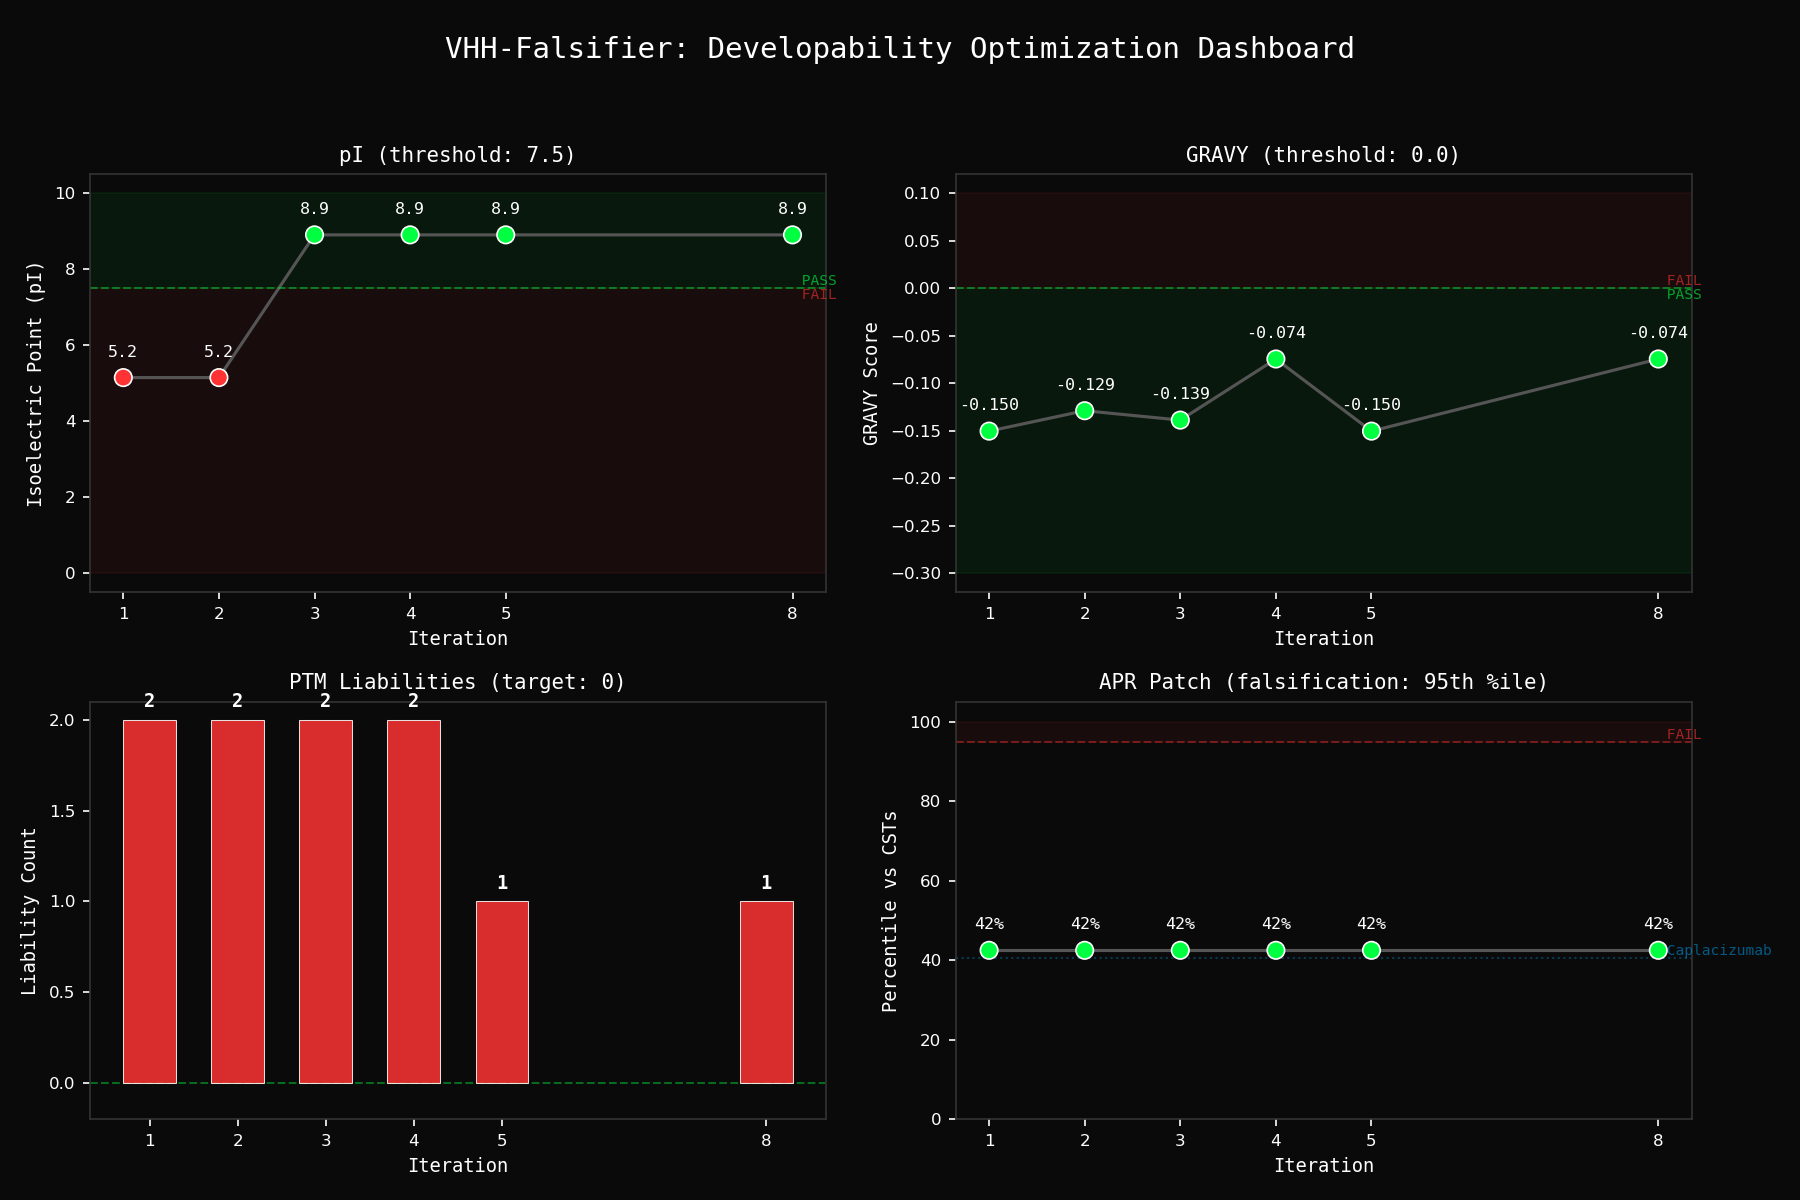
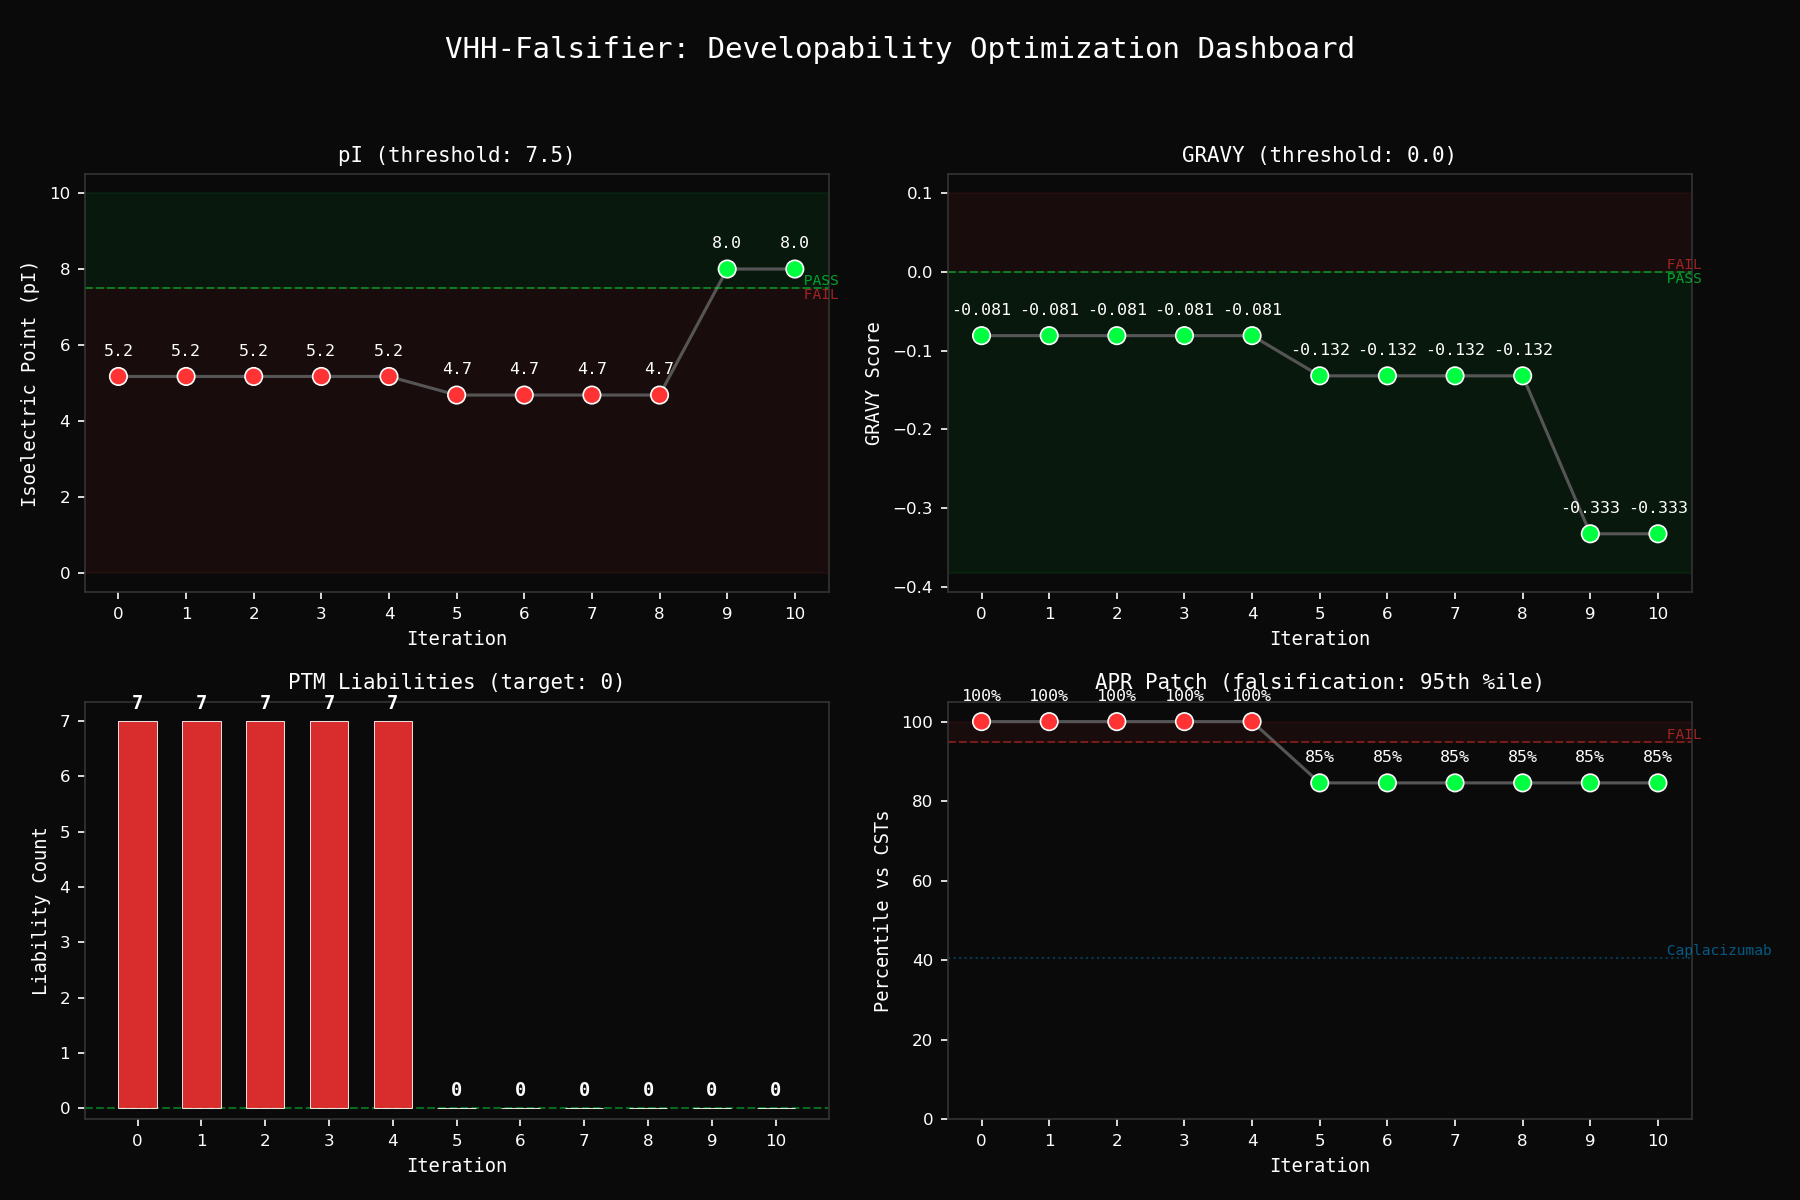
feat: default to naive seed, update dashboard image
Make --seed naive the default for more dramatic optimization dashboards
(7 liabilities, low pI, APR 100th percentile). Update dashboard PNG
with naive seed run showing full red-to-green optimization arc.

diff --git a/agent_loop.py b/agent_loop.py
@@ -285,6 +285,24 @@ identify a liability, be specific about position, motif, mechanism, and fix.
 """
 
 # ---------------------------------------------------------------------------
+# Seed sequences for different starting points
+# ---------------------------------------------------------------------------
+
+# Option 1: Deliberately bad naive VHH — 7 liabilities, low pI, APR 100th %ile,
+# fully humanized FR2. Maximises the red→green arc in the dashboard.
+NAIVE_SEED = (
+    "EVQLVESGGGLVQPGGSLRLSCAASGFTFSNGYMSNGWVRQAPGKGLEWVSDGISNGGS"
+    "TYYADSVKGRFTISRDNSKNTLYLQMNSLRAEDTAVYYCAAILVCFFDGYWGQGTLVTVSS"
+)
+
+# Option 2: Pembrolizumab heavy chain VH (PDB 5DK3) — real clinical sequence,
+# 1 liability (NG), good pI, but fully humanized FR2 (needs camelid conversion).
+PEMBROLIZUMAB_VH_SEED = (
+    "QVQLVQSGVEVKKPGASVKVSCKASGYTFTNYYMYWVRQAPGQGLEWMGGINPSNGGTN"
+    "FNEKFKNRVTLTTDSSTTTAYMELKSLQFDDTAVYYCARRDYRFDMGFDYWGQGTTVTVSS"
+)
+
+# ---------------------------------------------------------------------------
 # Main falsification loop
 # ---------------------------------------------------------------------------
 MAX_ITERATIONS = 10  # Safety cap to prevent runaway loops
@@ -295,6 +313,7 @@ PLOT_DIR = Path(__file__).parent / "assets"
 
 def _plot_biophysical_trajectory(
     points: list[dict],
+    plot_name: str = "biophysical_trajectory",
 ) -> Path:
     """Generate a multi-panel developability dashboard.
 
@@ -305,7 +324,7 @@ def _plot_biophysical_trajectory(
       4. APR percentile — worst hydrophobic patch vs. clinical distribution
     """
     PLOT_DIR.mkdir(exist_ok=True)
-    out_path = PLOT_DIR / "biophysical_trajectory.png"
+    out_path = PLOT_DIR / f"{plot_name}.png"
 
     def _is_imputed(point: dict, key: str) -> bool:
         return key in point.get("_imputed", set())
@@ -540,8 +559,17 @@ def _plot_biophysical_trajectory(
     return out_path
 
 
-def run_falsification_loop() -> None:
-    """Run the generate → falsify → critique → mutate loop."""
+def run_falsification_loop(
+    seed_sequence: str | None = None,
+    plot_name: str = "biophysical_trajectory",
+) -> None:
+    """Run the generate → falsify → critique → mutate loop.
+
+    Args:
+        seed_sequence: Optional starting sequence. If provided, the agent is
+            asked to optimize it rather than designing from scratch.
+        plot_name: Base name for the dashboard PNG (without extension).
+    """
     api_key = os.environ.get("TOGETHER_API_KEY")
     if not api_key:
         print(
@@ -555,27 +583,39 @@ def run_falsification_loop() -> None:
 
     client = OpenAI(api_key=api_key, base_url=BASE_URL)
 
-    header_print("VHH-Falsifier — Sequential Falsification Loop")
+    seed_label = "from seed" if seed_sequence else "zero-shot"
+    header_print(f"VHH-Falsifier — Sequential Falsification Loop ({seed_label})")
     cot_print(f"Session started: {datetime.now(timezone.utc).isoformat()}")
     cot_print("Target: Human PD-1 (Pembrolizumab epitope)")
     cot_print("Scaffold: Camelid VHH nanobody")
     cot_print(f"Provider: Together AI ({BASE_URL})")
     cot_print(f"Model: {model_id}")
     cot_print(f"Max iterations: {MAX_ITERATIONS}")
+    if seed_sequence:
+        cot_print(f"Seed sequence: {seed_sequence[:40]}...")
     cot_print(f"CoT log: {COT_LOG.resolve()}\n")
+
+    # Build user prompt — seeded or zero-shot
+    if seed_sequence:
+        user_prompt = (
+            f"Optimize the following seed VHH sequence for targeting Human PD-1 "
+            f"at the Pembrolizumab epitope. This sequence has known developability "
+            f"issues. Follow the sequential falsification protocol exactly: first "
+            f"run all four tools on this seed, then critique and mutate.\n\n"
+            f"Seed sequence:\n{seed_sequence}"
+        )
+    else:
+        user_prompt = (
+            "Design a VHH nanobody targeting Human PD-1 at the "
+            "Pembrolizumab epitope. Follow the sequential falsification "
+            "protocol exactly. Begin by proposing your first candidate "
+            "sequence, then immediately falsify it with all four tools."
+        )
 
     # Initial user message kicks off the loop
     messages: list[dict] = [
         {"role": "system", "content": SYSTEM_PROMPT},
-        {
-            "role": "user",
-            "content": (
-                "Design a VHH nanobody targeting Human PD-1 at the "
-                "Pembrolizumab epitope. Follow the sequential falsification "
-                "protocol exactly. Begin by proposing your first candidate "
-                "sequence, then immediately falsify it with all four tools."
-            ),
-        },
+        {"role": "user", "content": user_prompt},
     ]
 
     # Cost tracking
@@ -584,6 +624,20 @@ def run_falsification_loop() -> None:
 
     # Per-iteration tracking for dashboard plot
     iteration_metrics: dict[int, dict] = {}  # iteration -> merged metrics
+
+    # Capture iteration-0 baseline if a seed was provided
+    if seed_sequence:
+        bp = json.loads(calculate_biophysical_profile(seed_sequence))
+        sl = json.loads(scan_structural_liabilities(seed_sequence))
+        ap = json.loads(scan_aggregation_patches(seed_sequence))
+        iteration_metrics[0] = {
+            "iteration": 0,
+            "pI": bp.get("isoelectric_point", 0),
+            "gravy": bp.get("gravy", 0),
+            "liability_count": sl.get("liability_count", 0),
+            "apr_percentile": ap.get("candidate_max_patch", {}).get("percentile", 0),
+        }
+        cot_print("[Baseline] Seed sequence profiled as iteration 0")
 
     iteration = 0
     for iteration in range(1, MAX_ITERATIONS + 1):
@@ -748,7 +802,7 @@ def run_falsification_loop() -> None:
                     dashboard_points[i].setdefault("_imputed", set()).add(key)
 
     if len(dashboard_points) >= 2:
-        plot_path = _plot_biophysical_trajectory(dashboard_points)
+        plot_path = _plot_biophysical_trajectory(dashboard_points, plot_name)
         cot_print(f"Developability dashboard saved: {plot_path}")
     elif dashboard_points:
         cot_print("Only one iteration with data — skipping dashboard.")
@@ -762,4 +816,28 @@ def run_falsification_loop() -> None:
 
 
 if __name__ == "__main__":
-    run_falsification_loop()
+    import argparse
+
+    parser = argparse.ArgumentParser(description="VHH-Falsifier agent loop")
+    parser.add_argument(
+        "--seed",
+        choices=["naive", "pembrolizumab", "none"],
+        default="naive",
+        help="Seed sequence: 'naive' (deliberately bad), 'pembrolizumab' (real VH), 'none' (zero-shot)",
+    )
+    parser.add_argument(
+        "--plot-name",
+        default="biophysical_trajectory",
+        help="Base name for the dashboard PNG",
+    )
+    args = parser.parse_args()
+
+    seed_map = {
+        "naive": NAIVE_SEED,
+        "pembrolizumab": PEMBROLIZUMAB_VH_SEED,
+        "none": None,
+    }
+    run_falsification_loop(
+        seed_sequence=seed_map[args.seed],
+        plot_name=args.plot_name,
+    )
